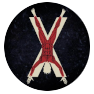
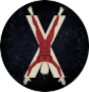
Show Boltons with DwD house cards and during LobbyGameState

diff --git a/agot-bg-game-server/src/client/IngameComponent.tsx b/agot-bg-game-server/src/client/IngameComponent.tsx
@@ -703,21 +703,20 @@ export default class IngameComponent extends Component<IngameComponentProps> {
     }
 
     componentWillMount(): void {
-        // Check for Dance with Dragons setup
-        if (this.props.gameState.entireGame.gameSettings.setupId != 'a-dance-with-dragons') {
-            return;
+        // Check for Dance with Dragons house cards
+        if (this.props.gameState.entireGame.gameSettings.adwdHouseCards ||
+            this.props.gameState.entireGame.gameSettings.setupId == "a-dance-with-dragons") {
+            // Replace Stark images with Bolton images for DwD
+            houseCardsBackImages.set("stark", houseCardsBackImages.get("bolton"));
+            houseInfluenceImages.set("stark", houseInfluenceImages.get("bolton"));
+            houseOrderImages.set("stark", houseOrderImages.get("bolton"));
+            housePowerTokensImages.set("stark", housePowerTokensImages.get("bolton"));
+            unitImages.set("stark", unitImages.get("bolton"));
+
+            const boltons = this.props.gameState.game.houses.get("stark");
+            boltons.name = "Bolton";
+            boltons.color = "#3f67b6"
         }
-
-        // Replace Stark images with Bolton images for DwD
-        houseCardsBackImages.set("stark", houseCardsBackImages.get("bolton"));
-        houseInfluenceImages.set("stark", houseInfluenceImages.get("bolton"));
-        houseOrderImages.set("stark", houseOrderImages.get("bolton"));
-        housePowerTokensImages.set("stark", housePowerTokensImages.get("bolton"));
-        unitImages.set("stark", unitImages.get("bolton"));
-
-        const boltons = this.props.gameState.game.houses.get("stark");
-        boltons.name = "Bolton";
-        boltons.color = "#3f67b6"
     }
 
     componentDidMount(): void {

diff --git a/agot-bg-game-server/src/client/LobbyComponent.tsx b/agot-bg-game-server/src/client/LobbyComponent.tsx
@@ -24,6 +24,7 @@ import SimpleInfluenceIconComponent from "./game-state-panel/utils/SimpleInfluen
 import { observable } from "mobx";
 import DebouncedPasswordComponent from "./utils/DebouncedPasswordComponent";
 import { faLock } from "@fortawesome/free-solid-svg-icons";
+import houseInfluenceImages, { boltonInfluenceImage, starkInfluenceImage } from "./houseInfluenceImages";
 
 interface LobbyComponentProps {
     gameClient: GameClient;
@@ -234,6 +235,16 @@ export default class LobbyComponent extends Component<LobbyComponentProps> {
 
     leave(): void {
         this.lobby.chooseHouse(null, this.password);
+    }
+
+    componentWillUpdate(): void {
+        if (this.entireGame.gameSettings.adwdHouseCards || this.entireGame.gameSettings.setupId == "a-dance-with-dragons") {
+            houseInfluenceImages.set("stark", boltonInfluenceImage);
+            this.lobby.lobbyHouses.get("stark").name = "Bolton";
+        } else {
+            houseInfluenceImages.set("stark", starkInfluenceImage);
+            this.lobby.lobbyHouses.get("stark").name = "Stark";
+        }
     }
 
     componentDidMount(): void {

diff --git a/agot-bg-game-server/src/client/houseInfluenceImages.ts b/agot-bg-game-server/src/client/houseInfluenceImages.ts
@@ -19,4 +19,6 @@ const houseInfluenceImages = new BetterMap([
     ["bolton", boltonInfluence]
 ]);
 
+export const boltonInfluenceImage = boltonInfluence;
+export const starkInfluenceImage = starkInfluence;
 export default houseInfluenceImages;
